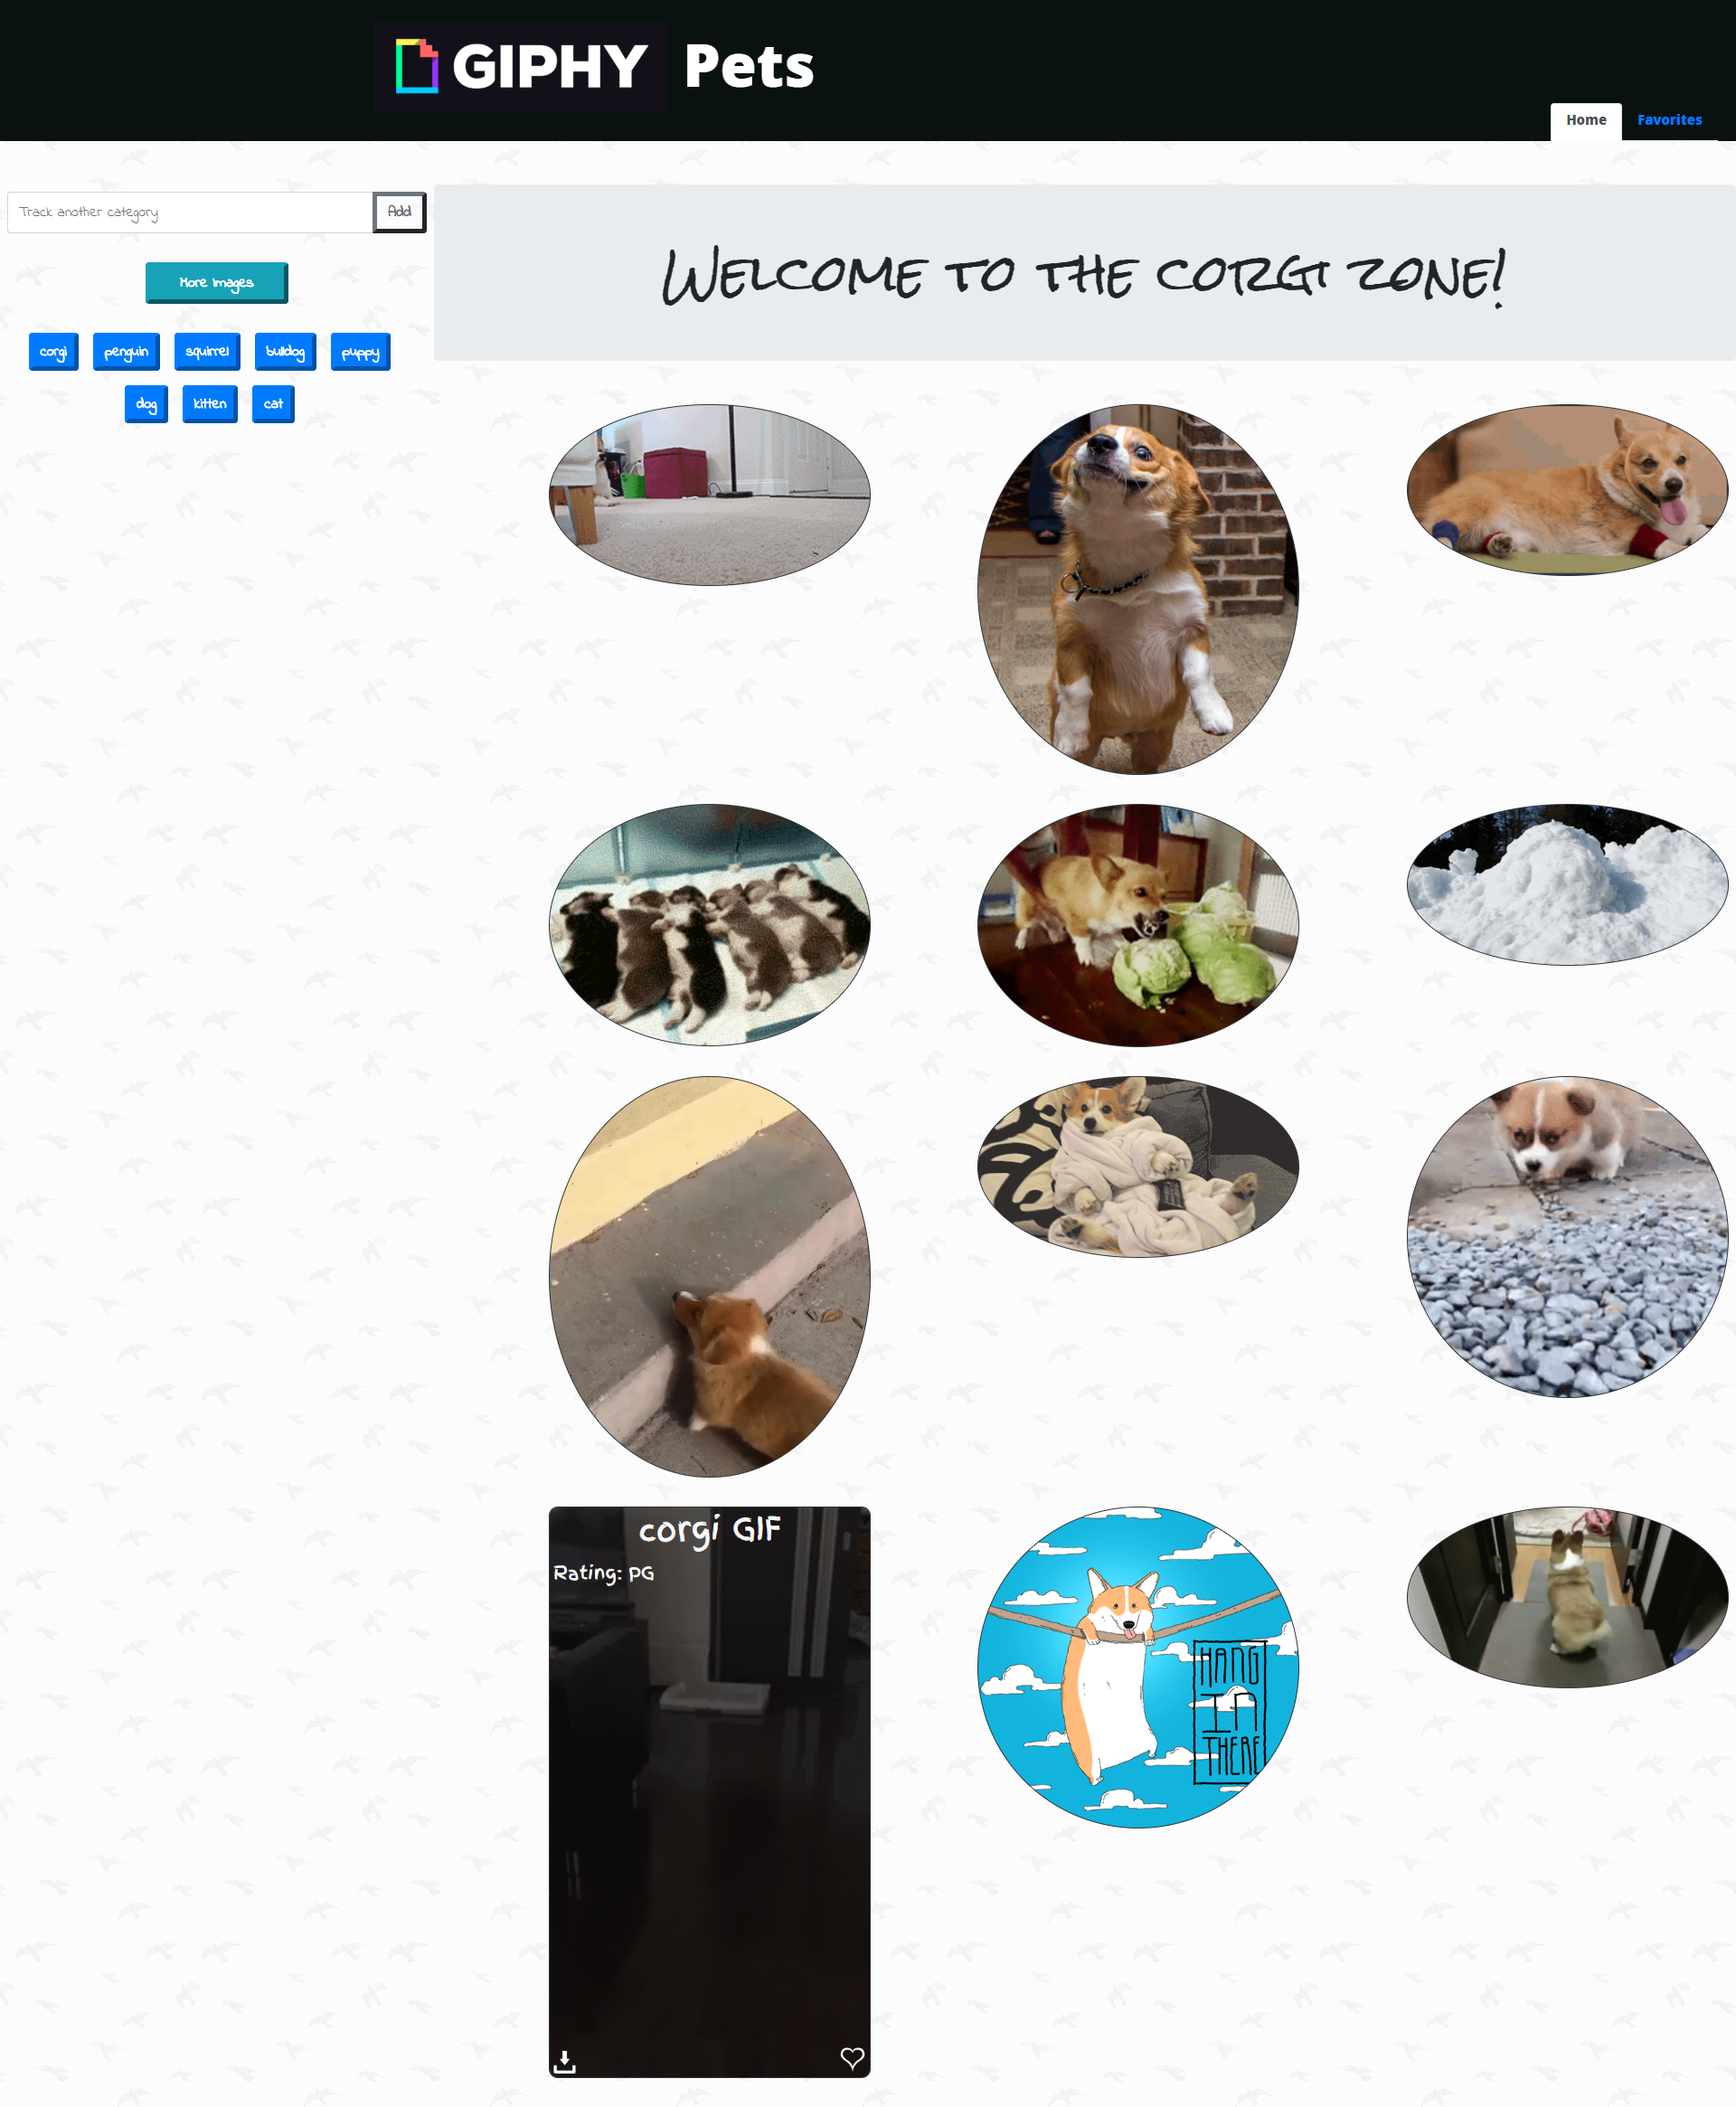
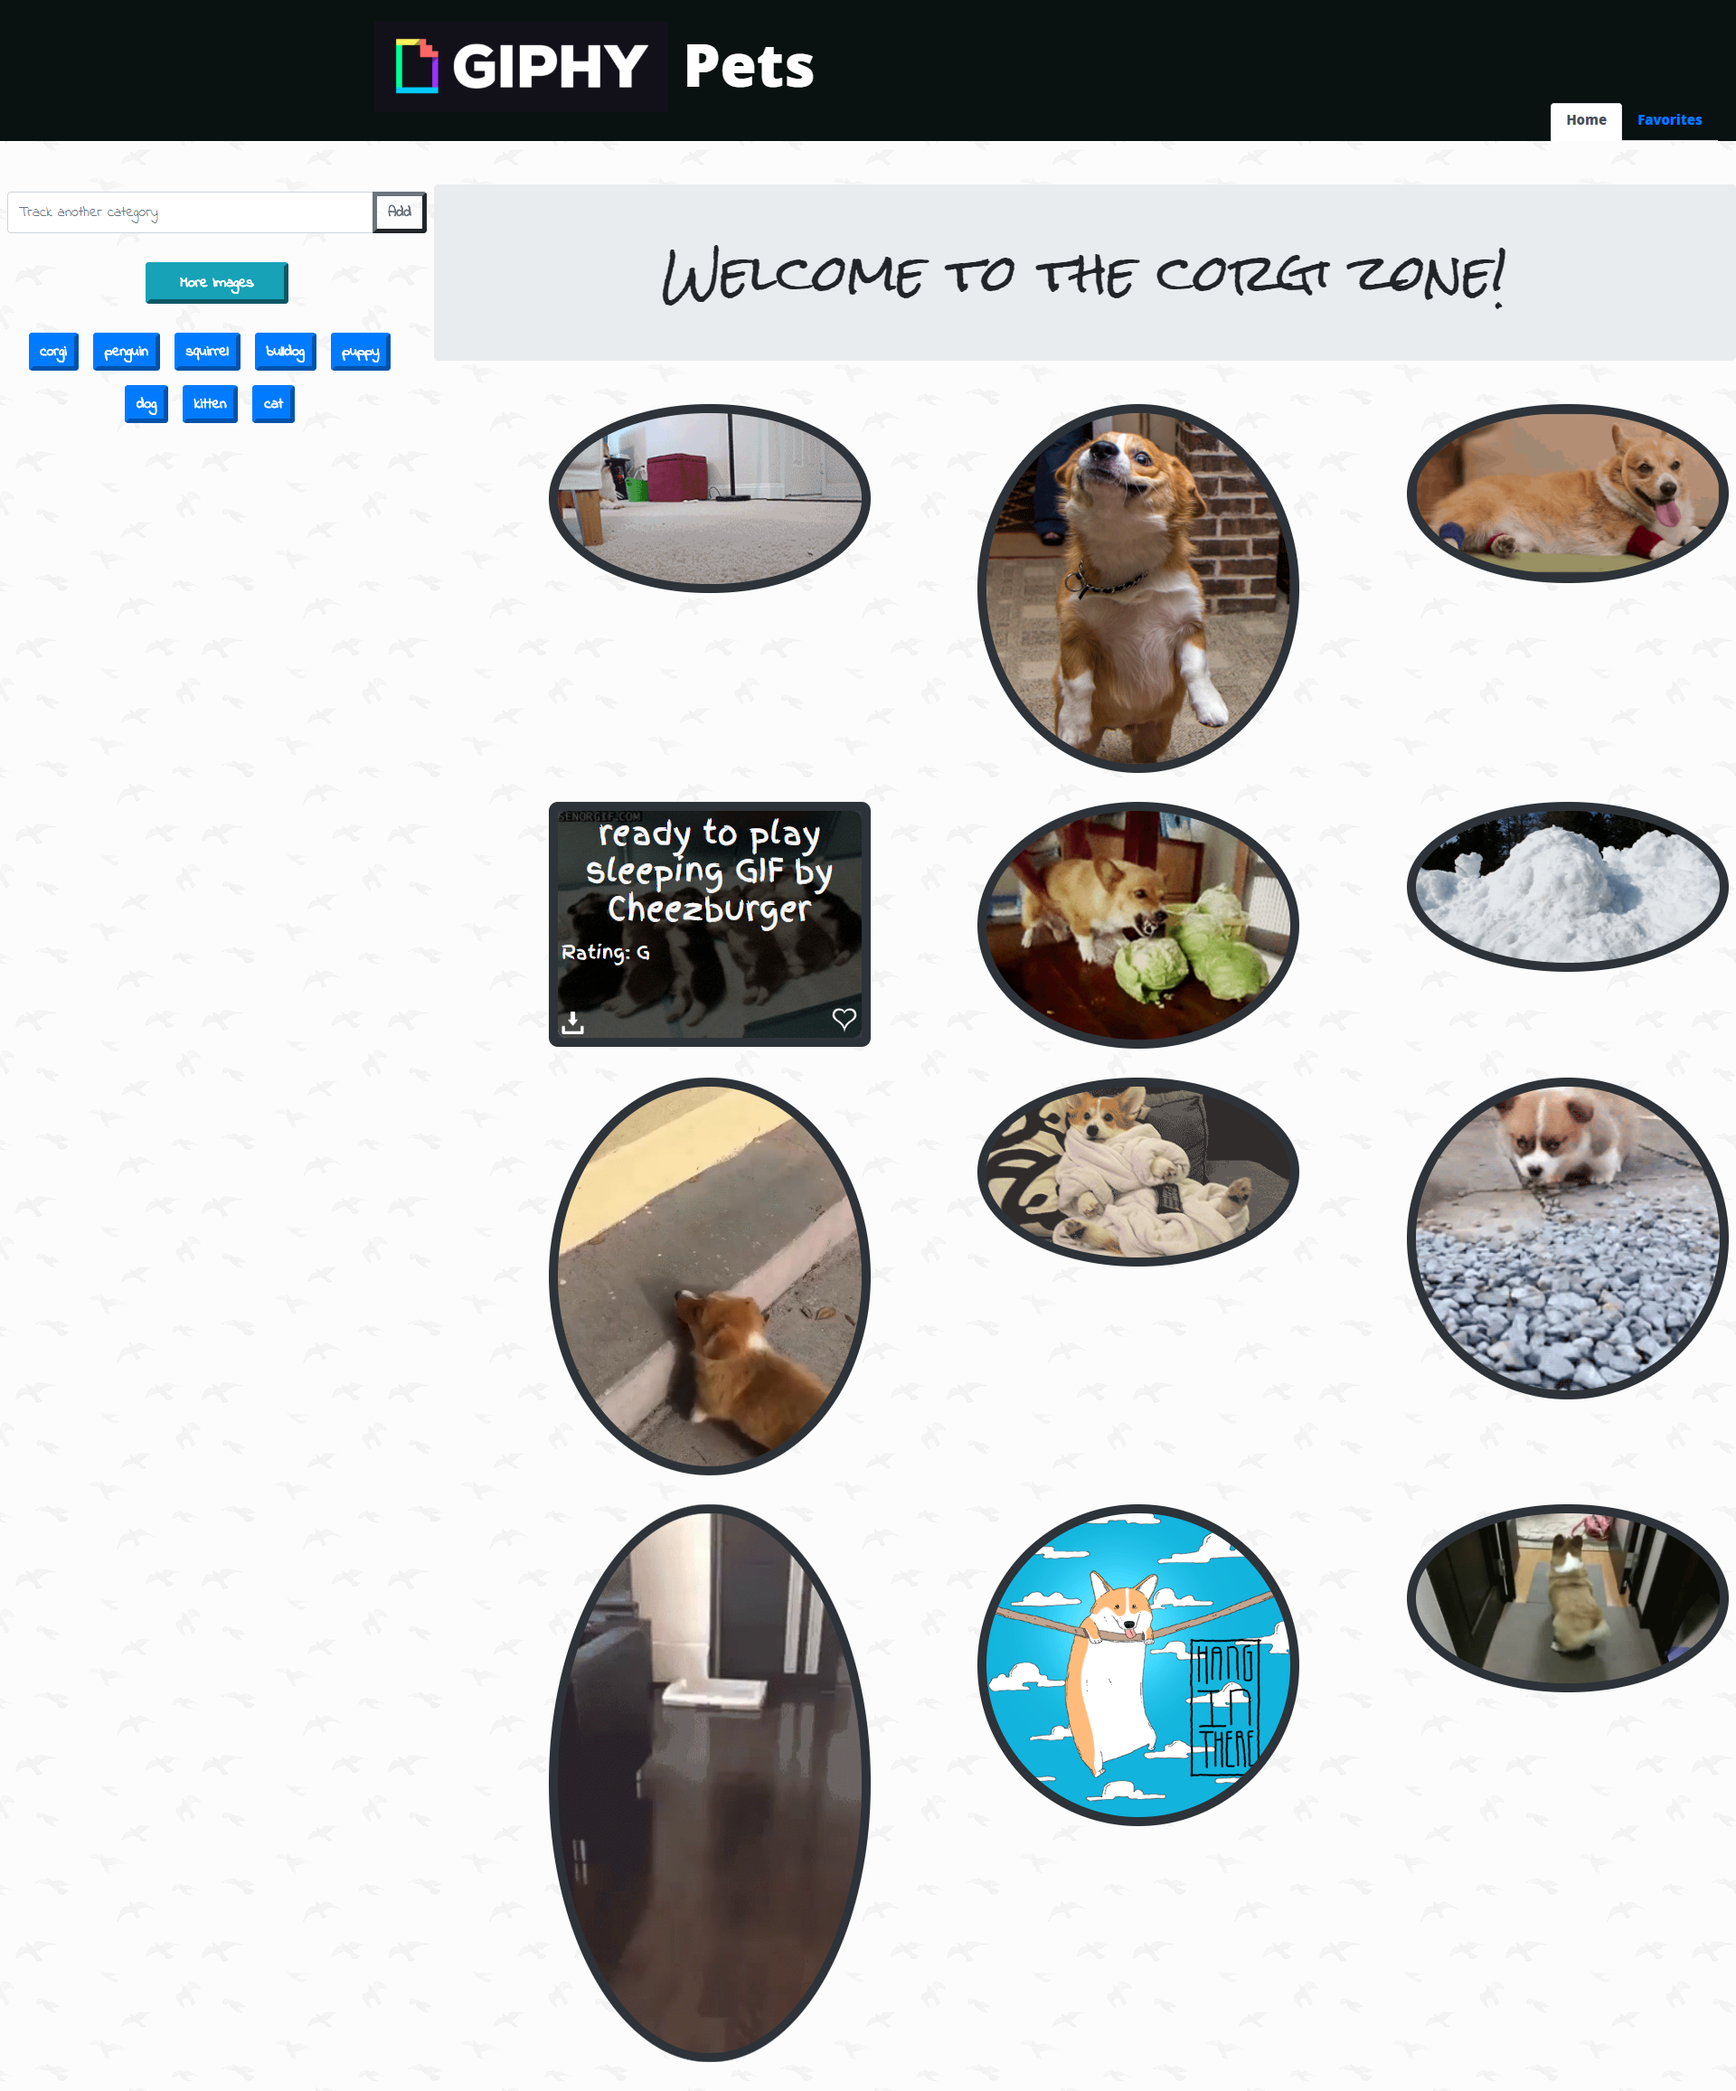
finish readme

diff --git a/assets/css/style.css b/assets/css/style.css
@@ -52,6 +52,8 @@ input {
 .imgCard {
     height: 100%;
     border-radius: 50%;
+    border-width: 10px;
+    border-style: solid;
 }
 
 .imgCard-img {

diff --git a/README.md b/README.md
@@ -1,2 +1,41 @@
-# Giphy-Library
-Explore the plentiful and varied content from Giphy! Bookmark interesting gifs and download your favorites!
+# Giphy Pets Library
+
+Explore the plentiful and varied content from Giphy! Favorite interesting gifs and download your favorites!
+
+## Getting Started
+
+Open up the [project link](https://robertshaw87.github.io/Giphy-Library/) and you should be able to see the example webpage shown below:
+
+![Giphy Pets](assets/images/readme.png "Giphy Pets")
+
+Click one of the predefined buttons or add one of your own to display a selection of Gifs. Click one to begin the animation! Hover over each image to see more information about them. You can also find the download link in the bottom left hand corner of each image, and a toggleable favorites button on the bottom right. Your favorites will be stored across sessions, so take the time and build up your very own library of your favorite gifs!
+
+### Prerequisites
+
+You need to have a modern browser able to handle html5, javascript, and css. 
+
+### Installing
+
+No installation needed! Just open the page in your preferred browser.
+
+## Built With
+
+* Html
+
+* CSS
+
+* [Javascript](https://www.javascript.com/) - The scripting language used
+
+* [BootstrapCDN v4.1.0](https://getbootstrap.com/docs/4.1/getting-started/introduction/) - The web framework used
+
+* [jQuery v3.3.1](http://jquery.com/) - Java library for DOM and CSS manipulation
+
+* [Google Fonts](https://fonts.google.com/) - Font repository
+
+* [Giphy API](https://developers.giphy.com/) - Animated and still images
+
+* [OMDB API](http://www.omdbapi.com/) - Movie suggestions
+
+## Authors
+
+* **Robert Shaw** - *Initial work* - [robertshaw87](https://github.com/robertshaw87)
